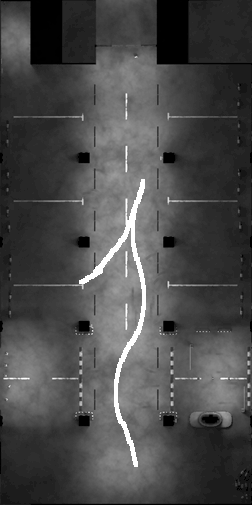
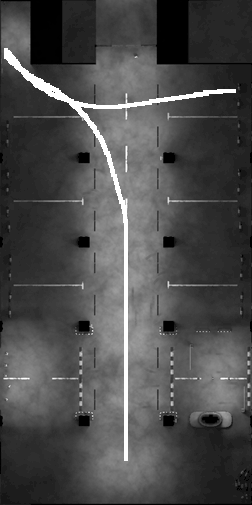
DDPG model update

Changed region(s): [[0.3056, 0.2673, 0.5833, 0.9208], [0.0, 0.0891, 0.9444, 0.2673]]

diff --git a/ddpg_model.py b/ddpg_model.py
@@ -2,6 +2,7 @@ import gym
 import tensorflow as tf
 from tensorflow.keras import layers
 import numpy as np
+import cv2 as cv
 import matplotlib.pyplot as plt
 
 import setup_path
@@ -10,6 +11,8 @@ import time
 import pyautogui
 import pytesseract
 from PIL import Image
+
+import tracking
 
 physical_devices = tf.config.list_physical_devices('GPU')
 tf.config.experimental.set_memory_growth(physical_devices[0], True)
@@ -21,6 +24,7 @@ upper_bound = 1
 lower_bound = 0
 
 api_control = True
+
 
 class OUActionNoise:
     def __init__(self, mean, std_deviation, theta=0.15, dt=1e-2, x_initial=None):
@@ -269,29 +273,18 @@ def capture_goal():  # 목표 지점의 언리얼 좌표 -> 에어심 좌표 변
 
 def save_model():
     # Save the weights
-    now = time.localtime()
+    actor_model.save(".\\save_models\\" + start_time + "\\parking_actor_ep" + str(ep_cnt+1) + ".h5")
+    critic_model.save(".\\save_models\\" + start_time + "\\parking_critic_ep" + str(ep_cnt+1) + ".h5")
 
-    actor_model.save(".\\save_models\\parking_actor_" +
-                     str(now.tm_year)[2:] + str(now.tm_mon).zfill(2) + str(now.tm_mday).zfill(2) + "_" +
-                     str(now.tm_hour).zfill(2) + str(now.tm_min).zfill(2) + str(now.tm_sec).zfill(2) +
-                     "_ep" + str(ep_cnt+1) + ".h5")
-    critic_model.save(".\\save_models\\parking_critic_" +
-                      str(now.tm_year)[2:] + str(now.tm_mon).zfill(2) + str(now.tm_mday).zfill(2) + "_" +
-                      str(now.tm_hour).zfill(2) + str(now.tm_min).zfill(2) + str(now.tm_sec).zfill(2) +
-                      "_ep" + str(ep_cnt+1) + ".h5")
+    target_actor.save(".\\save_models\\" + start_time + "\\parking_target_actor_ep" + str(ep_cnt+1) + ".h5")
+    target_critic.save(".\\save_models\\" + start_time + "\\parking_target_critic_ep" + str(ep_cnt+1) + ".h5")
 
-    target_actor.save(".\\save_models\\parking_target_actor_" +
-                      str(now.tm_year)[2:] + str(now.tm_mon).zfill(2) + str(now.tm_mday).zfill(2) + "_" +
-                      str(now.tm_hour).zfill(2) + str(now.tm_min).zfill(2) + str(now.tm_sec).zfill(2) +
-                      "_ep" + str(ep_cnt+1) + ".h5")
-    target_critic.save(".\\save_models\\parking_target_critic_" +
-                       str(now.tm_year)[2:] + str(now.tm_mon).zfill(2) + str(now.tm_mday).zfill(2) + "_" +
-                       str(now.tm_hour).zfill(2) + str(now.tm_min).zfill(2) + str(now.tm_sec).zfill(2) +
-                       "_ep" + str(ep_cnt+1) + ".h5")
 
+now = time.localtime()
+start_time = str(now.tm_year)[2:] + str(now.tm_mon).zfill(2) + str(now.tm_mday).zfill(2) + "_" +\
+             str(now.tm_hour).zfill(2) + str(now.tm_min).zfill(2)
 
 pytesseract.pytesseract.tesseract_cmd = r'C:\Program Files\Tesseract-OCR\tesseract'
-
 
 std_dev = 0.2
 ou_noise = OUActionNoise(mean=np.zeros(1), std_deviation=float(std_dev) * np.ones(1))
@@ -313,7 +306,7 @@ actor_lr = 0.001
 critic_optimizer = tf.keras.optimizers.Adam(critic_lr)
 actor_optimizer = tf.keras.optimizers.Adam(actor_lr)
 
-total_episodes = 10000
+total_episodes = 100
 # Discount factor for future rewards
 gamma = 0.99
 # Used to update target networks
@@ -328,9 +321,11 @@ ep_reward_list = []
 avg_reward_list = []
 
 # 처음 실행 시 충돌 물체 인식 후 리셋 관련 문제 때문에 중지 후 다시 시작
-_ = sim_start()
-sim_stop()
 client, car_controls = sim_start()
+collision = (client.simGetCollisionInfo().object_name).lower()
+while collision.find('pipesmall') < 0 and collision != '':
+    sim_stop()
+    client, car_controls = sim_start()
 
 time.sleep(2)
 
@@ -339,6 +334,8 @@ ep_cnt = 0
 # Takes about 4 min to train
 for ep in range(total_episodes):
     ep_cnt = ep
+    if ep == 0 or ep + 1 % 10 == 0:
+        img = cv.imread('map.png', cv.IMREAD_GRAYSCALE)
     # prev_state = env.reset()
     prev_state = [client.getCarState().kinematics_estimated.position.x_val,  # 차량 위치 x 좌표
                   client.getCarState().kinematics_estimated.position.y_val,  # 차량 위치 y 좌표
@@ -405,10 +402,15 @@ for ep in range(total_episodes):
                  client.getDistanceSensorData("Distance2").distance,        # 우측 거리 센서
                  client.getDistanceSensorData("Distance3").distance,        # 후방 거리 센서
                  client.getDistanceSensorData("Distance4").distance]        # 좌측 거리 센서
+        
+        # 차량 이동 경로 기록
+        if ep == 0 or ep+1 % 10 == 0:
+            tracking.tracking(client, img)
 
         # reward = 1/1000 if ((client.simGetCollisionInfo().object_name).lower()).find('pipesmall') >= 0 else -1
 
-        if (((client.simGetCollisionInfo().object_name).lower()).find('pipesmall') >= 0):
+        collision = (client.simGetCollisionInfo().object_name).lower()
+        if collision.find('pipesmall') >= 0 or collision == '':
             done = False
         else:
             print('Episode', ep+1, ': Crash!!')
@@ -463,9 +465,15 @@ for ep in range(total_episodes):
         if done:
             print('Final Reward :', episodic_reward)
             print('Total Steps :', total_steps)
+
             is_captured = 0
+
+            sim_stop()
             sim_stop()
             client, car_controls = sim_start()
+
+            if ep == 0 or ep + 1 % 10 == 0:
+                cv.imwrite('.\\tracking\\' + str(start_time) + '\\ep' + str(ep+1) + '.png', img)
             break
 
         prev_state = state
@@ -487,5 +495,6 @@ sim_stop()
 plt.plot(avg_reward_list)
 plt.xlabel("Episode")
 plt.ylabel("Avg. Epsiodic Reward")
+ct = time.localtime()
+plt.savefig('.\\graph\\' + start_time + '.png')
 plt.show()
-

diff --git a/car_test/tracking.py b/car_test/tracking.py
@@ -58,8 +58,8 @@ s_t = time.time()
 e_t = time.time()
 
 while e_t - s_t < 15:
-    x = round(client.getCarState().kinematics_estimated.position.x_val, 1) + 12
-    y = round(client.getCarState().kinematics_estimated.position.y_val, 1) + 42
+    x = round(client.getCarState().kinematics_estimated.position.x_val, 1) + 11
+    y = round(client.getCarState().kinematics_estimated.position.y_val, 1) + 41
 
     x = int(x * x_block)
     y = int(y * y_block)
